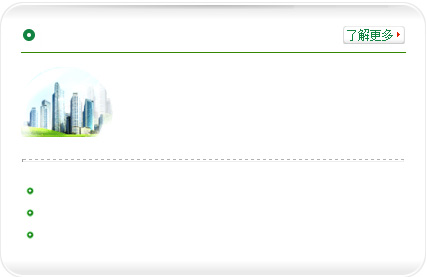
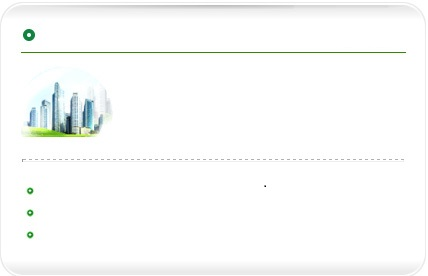
0822完工

diff --git a/GW/GW.html b/GW/GW.html
@@ -175,7 +175,7 @@
 					   display: block;
 						  }
 
-		.header_HYJY{color: #00645f;
+		h1.header1_HYJY{color: #00645f;
 				 font-size: 17px;
 				 position: relative;
 				 top: 14px;
@@ -184,7 +184,8 @@
 				}
 		
 		.HuiYiJiYao ul li{list-style-type: none;
-							line-height: 30px;
+							line-height:22px;
+							text-align: left;
 							}
 
 		a.contents_hyjy_1{text-decoration: none;
@@ -207,10 +208,21 @@
 							text-indent: 4em;
 							line-height: 20px;
 							display: block;
-							
+							text-align: left;
 
 							}
-		
+		a.more_1{position: relative;
+				 bottom: 126px;
+				 left: 145px;
+					}
+		.header_hyjy{position: relative;
+					   bottom: 8px;
+				   
+
+
+
+
+		}
 
 		
 
@@ -276,13 +288,18 @@
 
 		<div class="HuiYiJiYao">
 
-				<h1 class="header_HYJY">重要会议纪要</h1>
+				<h1 class="header1_HYJY">重要会议纪要</h1>
 				<div class="contents_hyjy_1">
-				<a href="" class="contents_hyjy_1">环保1术语测试标题环保术语测试标题环保术语测试标题环保术语测试标题环保术语测试标题环保术语测试标题环保术语测试标题环保术语测试标题环保术语测试标环保术语测试标题</a>
+					<a href="" class="contents_hyjy_1">环保1术语测试标题环保术语测试标题环保术语测试标题环保术语测试标题环保术语测试标题环保术语测试标题环保术语测试标题环保术语测试标题环保术语测试标环保术语测试标题</a>
 				</div>
+				<a href="" class="more_1"><img src="more.jpg"></a>
 				<ul>
-					<li></li>
+					<li><a href="" class="header_hyjy"> 左对齐重要会议纪要测试标题1</a></li>
+					<li><a href="" class="header_hyjy"> 重要会议纪要测试标题2重要会议纪要测试标题2</a></li>	
+					<li><a href="" class="header_hyjy"> 重要会议纪要测试标题3重要会议纪要测试标题3</a></li>
+
 				</ul>
+
 			
 		</div>
 
